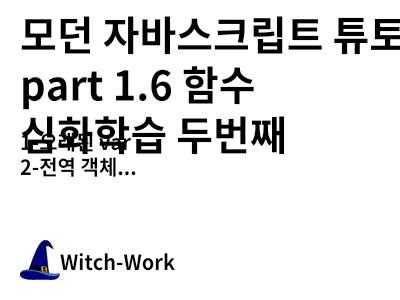
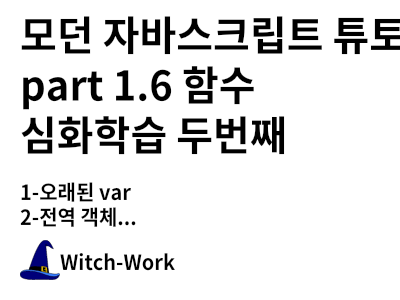
썸네일 생성방식 변경

Changed region(s): [[0.03, 0.42, 0.36, 0.78]]

diff --git a/posts/dev/blog-opt-4/index.md b/posts/dev/blog-opt-4/index.md
@@ -1,30 +1,14 @@
 ---
-title: 블로그 최적화 - 4. 검색 페이지 최적화
+title: 블로그 최적화 - 4. 여러 가지 최적화
 date: "2023-06-11T04:00:00Z"
 description: "겁나 빠른 마녀 : 블로그 최적화 그 네번째"
 tags: ["blog", "web"]
 ---
 
-# 1. 이미지 최적화
+# 1. 검색 페이지 최적화
 
-이미지를 전반적으로 최적화하는 글이다.
-일단 글 목록 페이지에 대한 lighthouse의 제안과 진단을 볼까? 음...점수는 처참하지만 천릿길도 한 걸음부터니까, 하라는 대로 해보자.
+검색 페이지는 현재 너무 많은 DOM 트리 요소를 가지고 있다. 따라서 무한 스크롤을 이용해서 초기 로딩되는 요소를 줄여보자.
 
-![category-page-diagnostics](./category-page-diagnostics.png)
+# 참고
 
-아까처럼 이미지에 적당한 크기를 주라고 한다. Card 컴포넌트에서 Image 태그에 sizes를 지정하자.
-
-```jsx
-function Card(props: Props) {
-/* 생략 */
-  <Image 
-    className={styles.image} 
-    src={image} 
-    alt={`${image} 사진`} 
-    width={200} 
-    height={200}
-    sizes='100px'
-  />
-/* 생략 */
-}
-```
+https://www.bucketplace.com/post/2020-09-10-%EC%98%A4%EB%8A%98%EC%9D%98%EC%A7%91-%EB%82%B4-%EB%AC%B4%ED%95%9C%EC%8A%A4%ED%81%AC%EB%A1%A4-%EA%B0%9C%EB%B0%9C%EA%B8%B0/

diff --git a/posts/dev/blog-remake-13/index.md b/posts/dev/blog-remake-13/index.md
@@ -71,7 +71,9 @@ function Menu({navList}: {navList: PropsItem[]}) {
 export default Menu;
 ```
 
-# 2. 도메인을 Vercel로
+# 2. 자동 생성 썸네일의 간격 조정
 
-이전에 배포를 vercel로 하도록 했다. 따라서 `witch.work` 도메인을 이쪽으로 향하게 해보자.
+현재 자동 생성 썸네일은 `src/plugins/make-thumbnail.mjs`에서 remark 플러그인 함수를 통해 생성하고 있다. 그런데 지금 코드의 경우 제목이 너무 길어서 여러 줄로 썸네일에 들어갈 경우 밑의 컨텐츠(헤딩 목록)가 유연하게 간격이 조절되지 않고 무조건 고정된 위치에 렌더링된다.
+
+이 코드를 수정하자.
 
